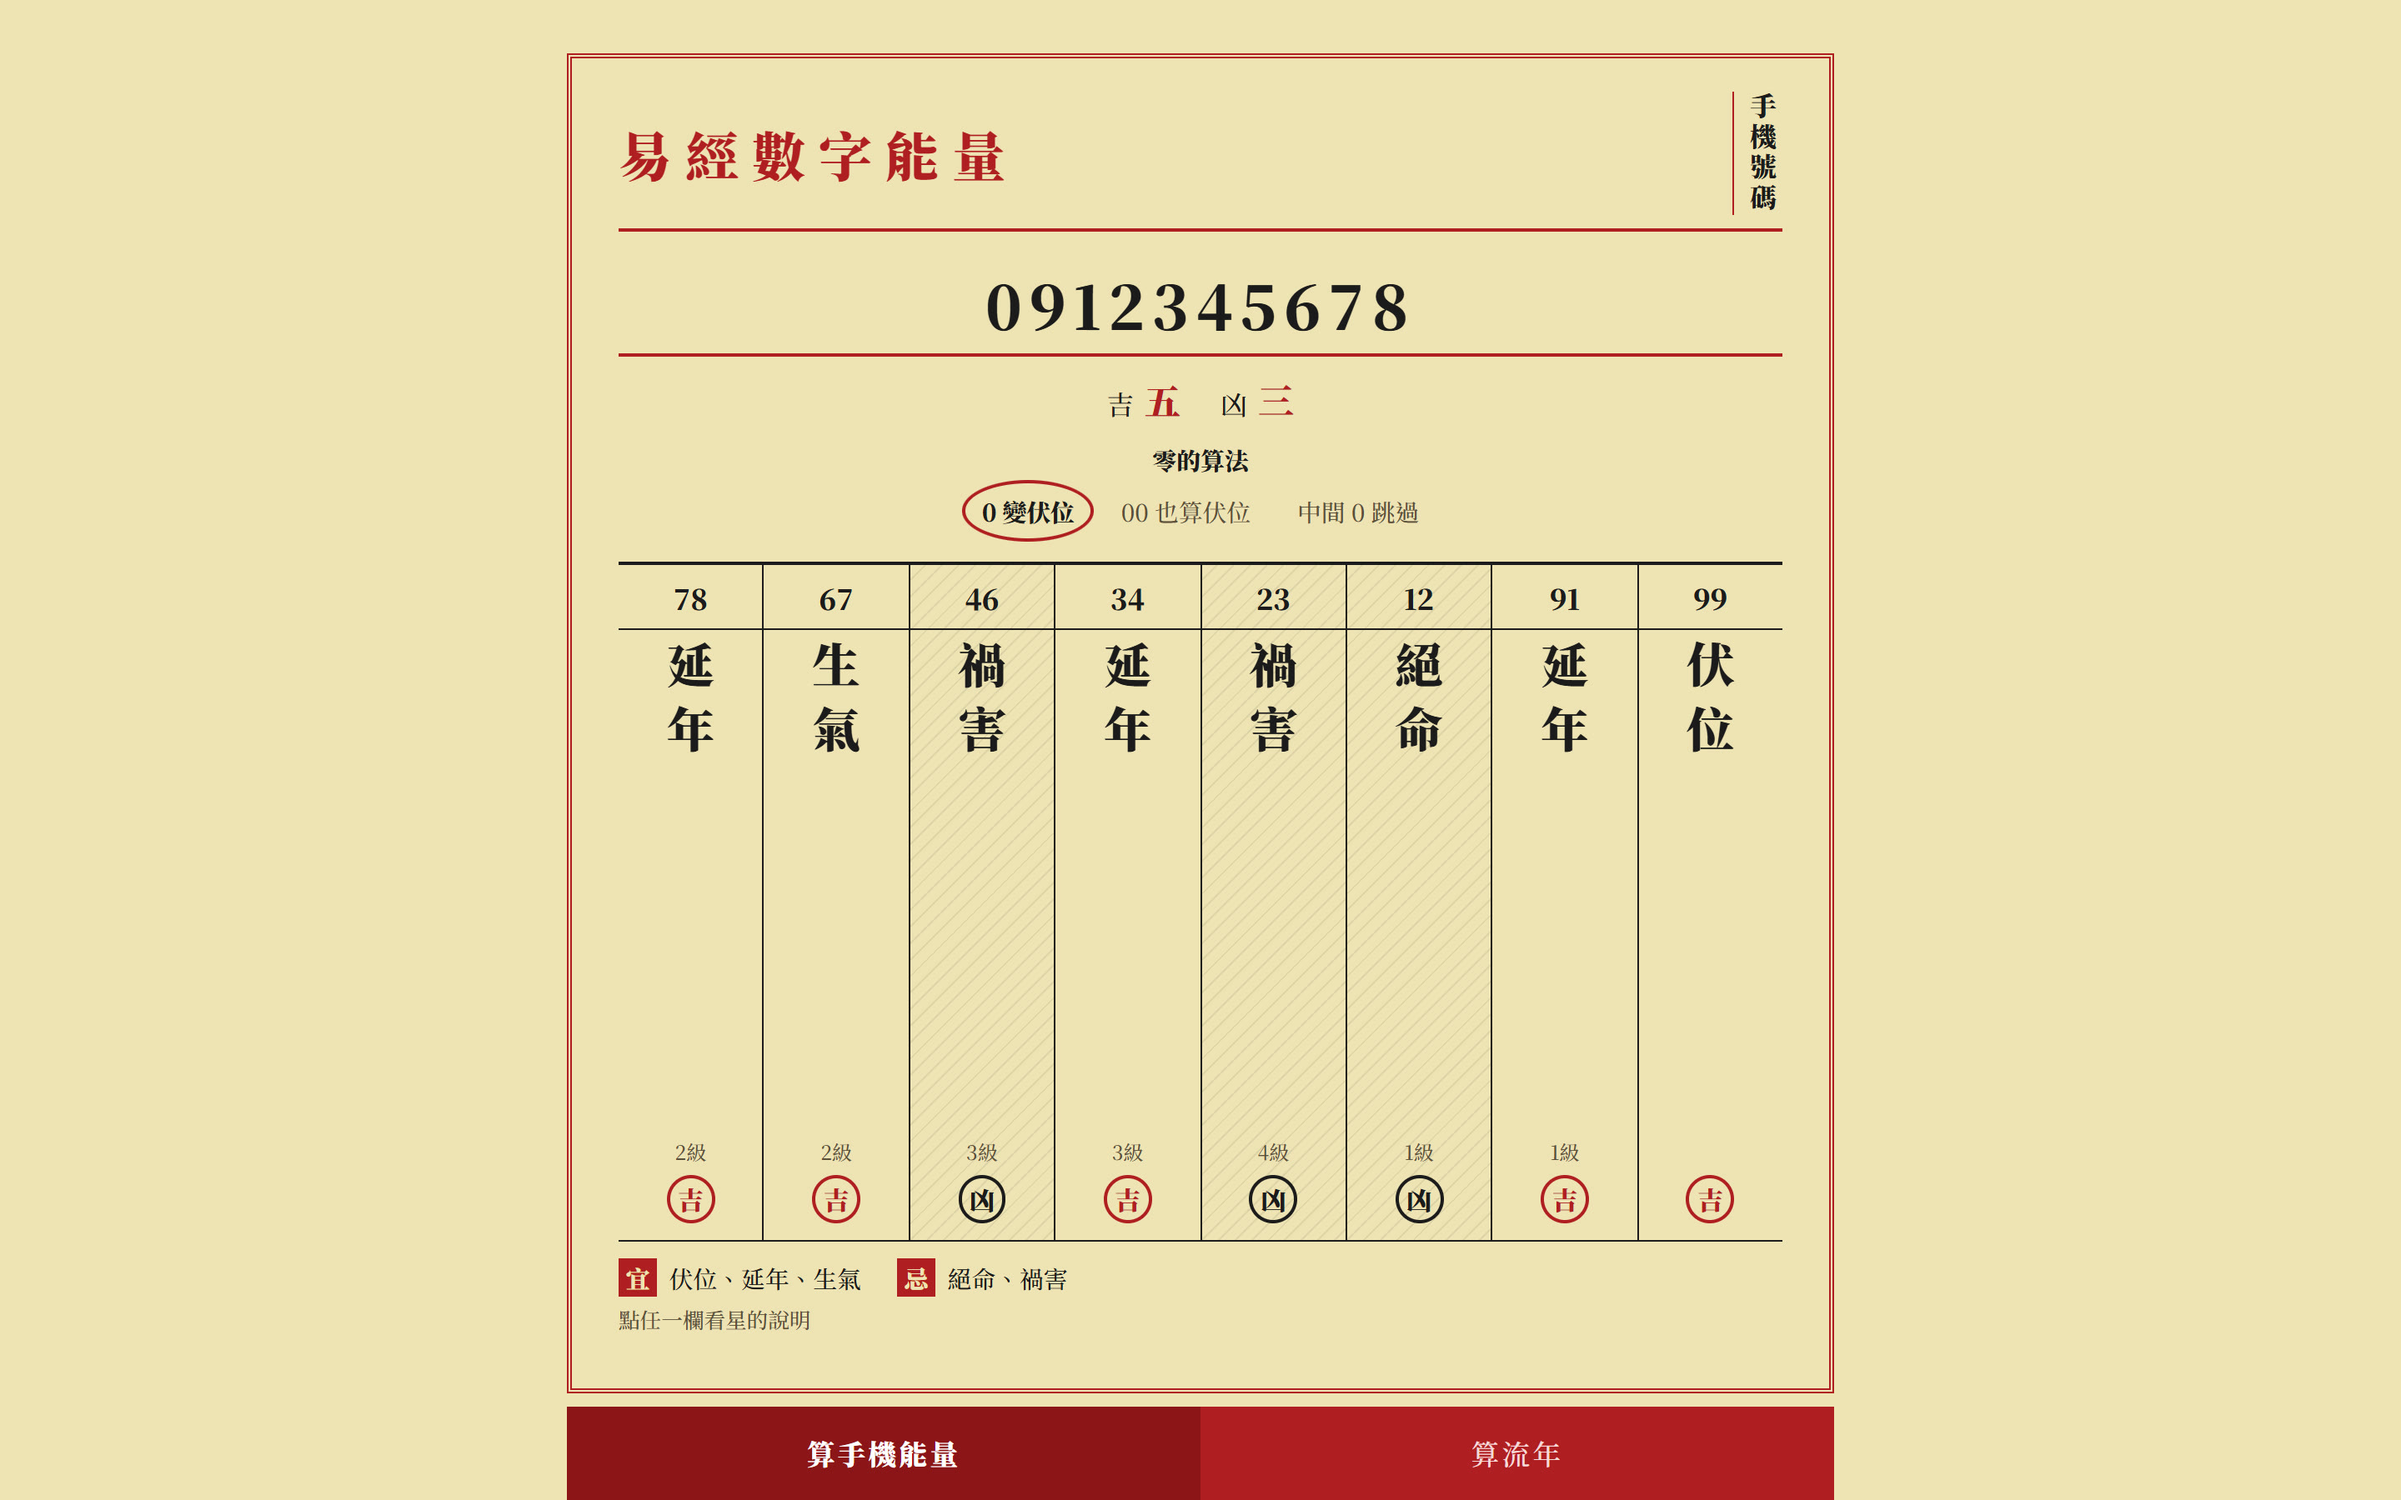
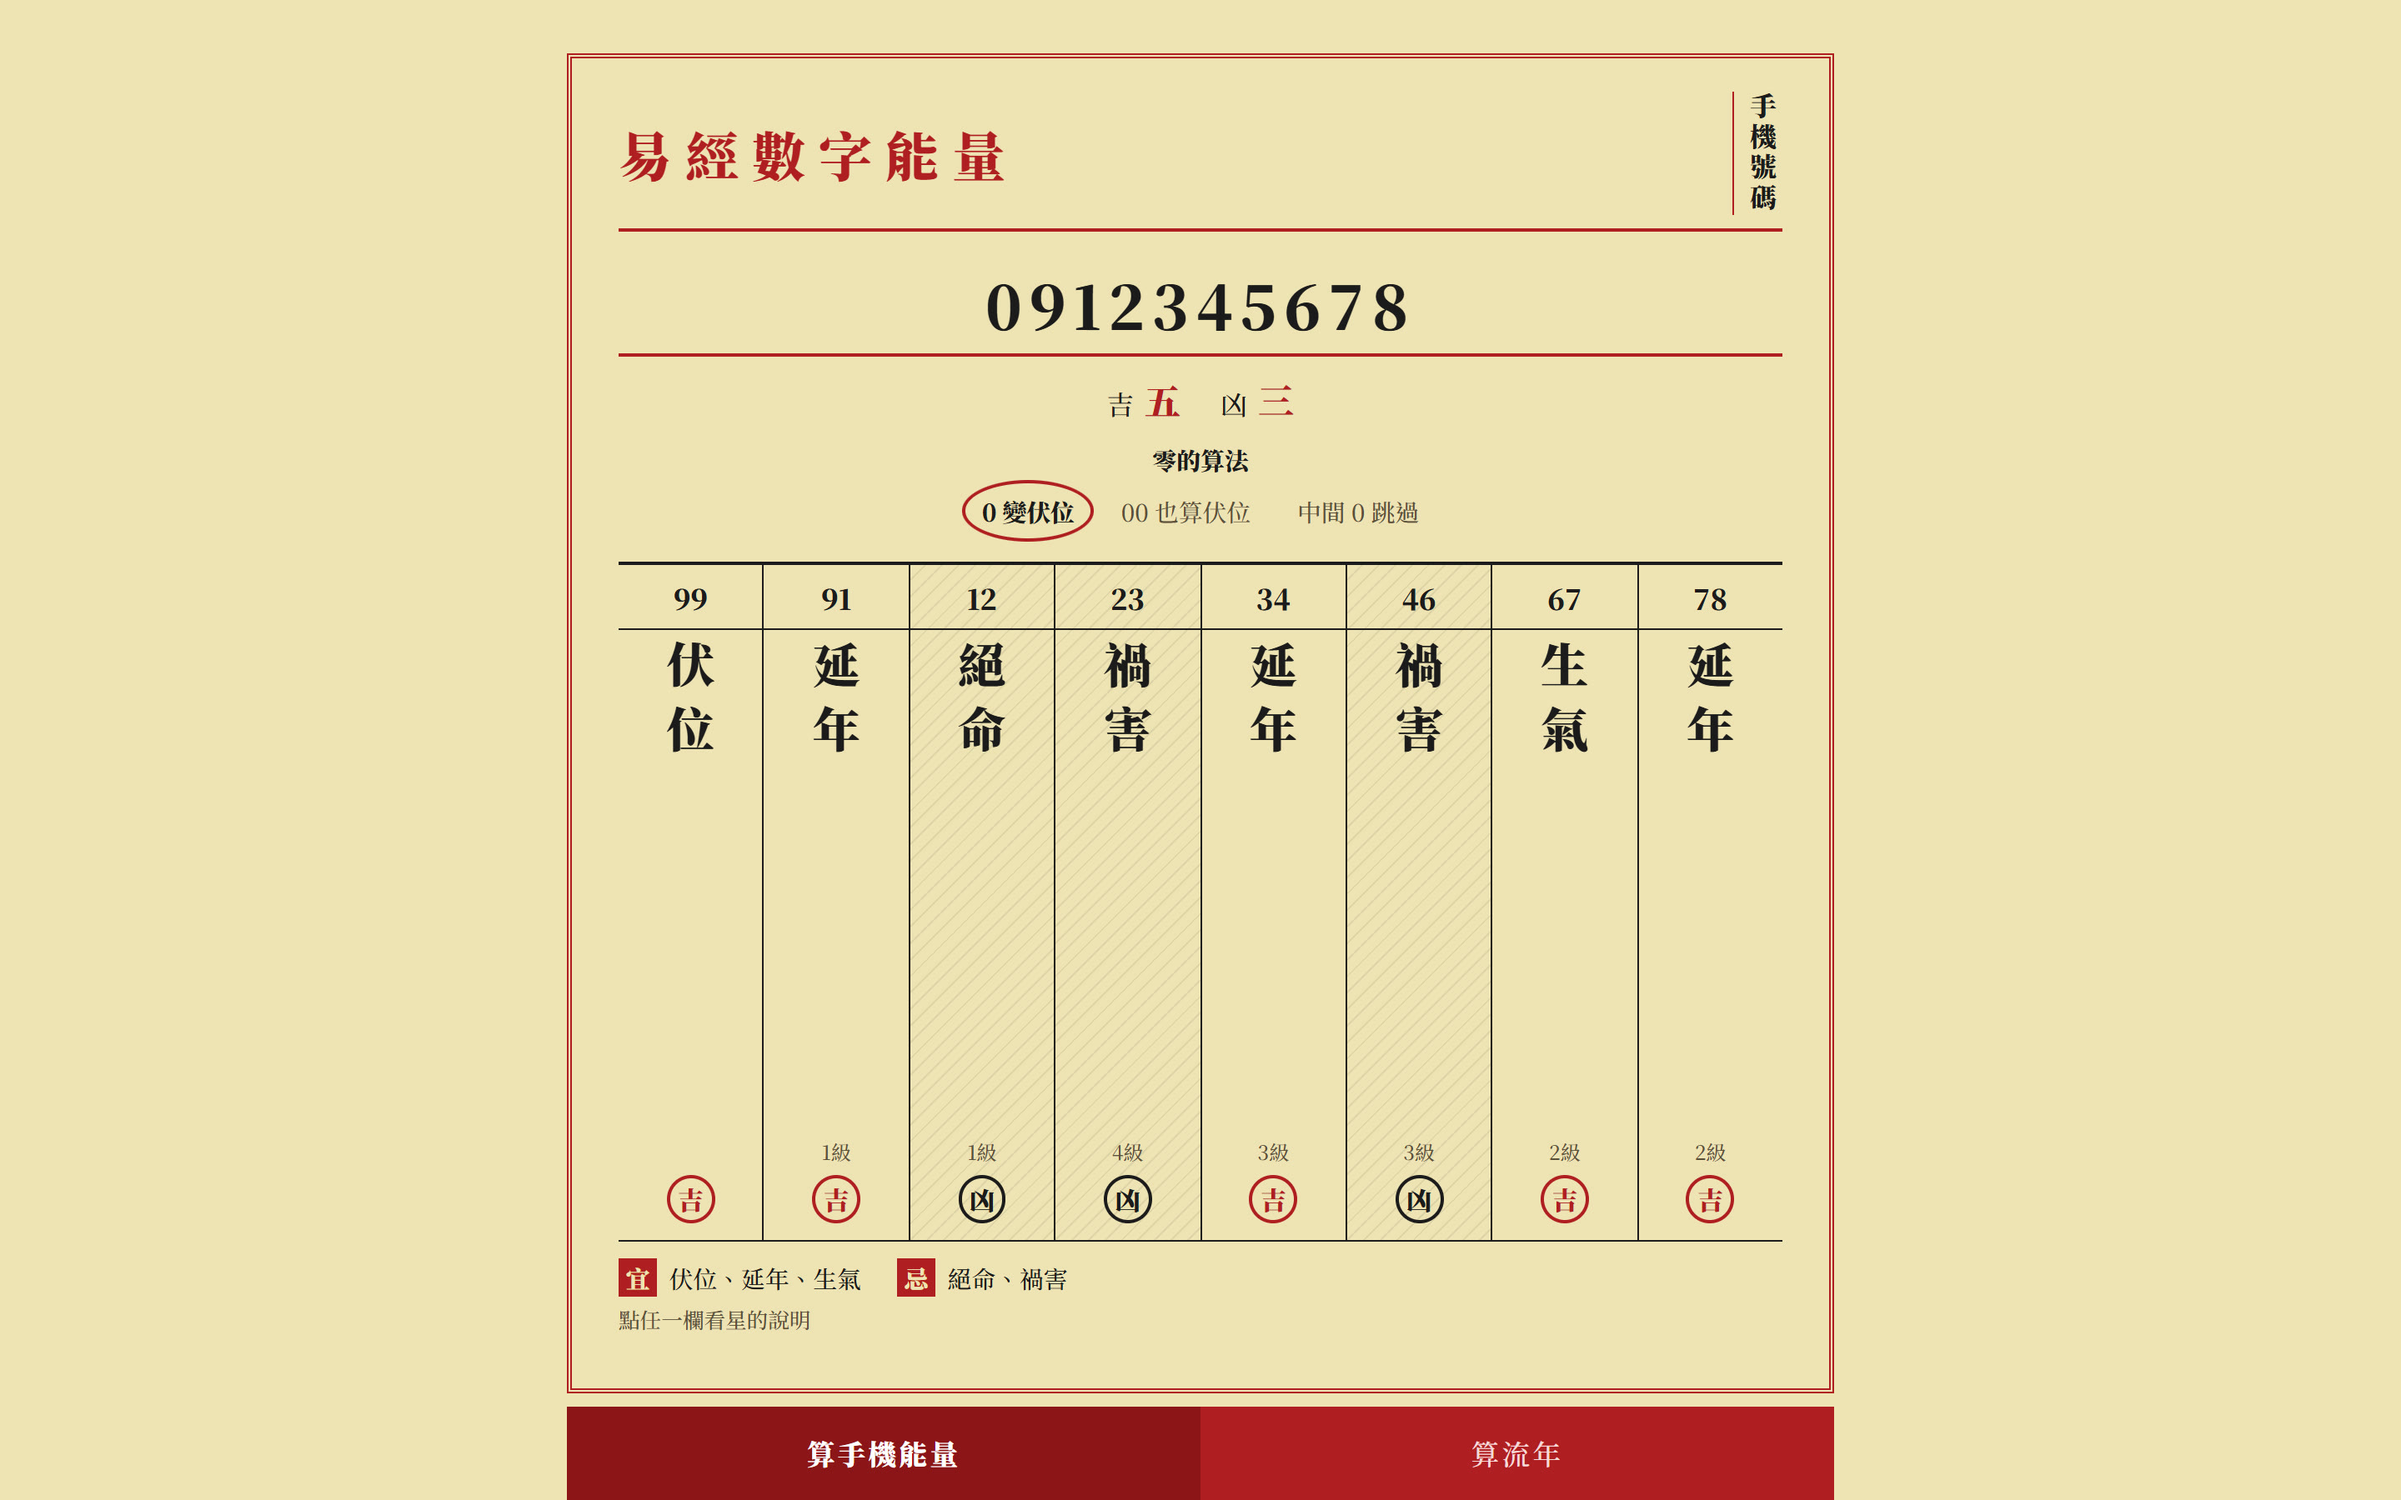
結果欄改為左起右讀，和號碼與年齡同方向

diff --git a/src/components/AlmanacColumns.vue b/src/components/AlmanacColumns.vue
@@ -1,7 +1,7 @@
 <script setup>
 import { computed } from 'vue'
 
-// 每組數字一欄，右起左讀；showAges 時欄寬等於該組管的年數
+// 每組數字一欄，左起右讀（和號碼、年齡同方向）；showAges 時欄寬等於該組管的年數
 const props = defineProps({
   results: { type: Array, required: true },
   showAges: { type: Boolean, default: false },
@@ -92,14 +92,13 @@ const bad = computed(() => props.results.filter(r => !r.lucky))
   flex-grow 1
   list-style none
   display flex
-  flex-direction row-reverse
   border-top 2px solid ink
   border-bottom 1px solid ink
   li
     flex 1 1 0
     min-width 0
     border-left 1px solid ink
-    &:last-child
+    &:first-child
       border-left none
 
 .col

diff --git a/DESIGN.md b/DESIGN.md
@@ -1,6 +1,6 @@
 ---
 name: 易經數字能量
-description: 把號碼印成一頁農民曆：每兩位數一欄、星名直排、右起左讀，吉凶用圈註一眼掃完。
+description: 把號碼印成一頁農民曆：每兩位數一欄、星名直排、左起右讀，吉凶用圈註一眼掃完。
 colors:
   almanac-paper: "#efe3b4"
   almanac-paper-deep: "#e4d49c"
@@ -114,7 +114,7 @@ components:
 
 **Key Characteristics:**
 - 曆紙黃底 + 墨黑 + 單一朱紅，三色就是全部
-- 欄位式版面：每組號碼一欄，右起左讀，星名直排
+- 欄位式版面：每組號碼一欄，左起右讀，星名直排
 - 吉用朱圈、凶用墨圈加斜線網底，不靠第二個色相分吉凶
 - 直角、細線、雙線外框；圓形只出現在「圈註」
 - 全站一套宋體（Noto Serif TC 500/900），數字等寬
@@ -164,7 +164,7 @@ components:
 
 單欄紙張：`.sheet` 最大寬 760px 置中，手機外距 8px、內距 12px 12px 16px；800px 以上頂部留 32px，內距 20px 28px 32px。紙張撐滿可視高度（100dvh），結果欄區塊以 flex-grow 吃掉剩餘空間，欄高至少 240px（桌機 280px）。
 
-結果是一列等寬欄（`flex-direction: row-reverse`，右起左讀），欄間 1px 墨線，上緣 2px 墨線、下緣 1px。流年頁的欄寬等於該組管的年數（flex-grow = 年數）；599px 以下圈註一起縮小以維持水平對齊。空狀態也畫出九欄淡墨格線（ink 18%），讓版面在輸入前就已經是曆書。
+結果是一列等寬欄（左起右讀，和號碼、年齡同方向；使用者 2026-10-09 決定不採曆書的右起左讀），欄間 1px 墨線，上緣 2px 墨線、下緣 1px。流年頁的欄寬等於該組管的年數（flex-grow = 年數）；599px 以下圈註一起縮小以維持水平對齊。空狀態也畫出九欄淡墨格線（ink 18%），讓版面在輸入前就已經是曆書。
 
 導覽列固定在畫面底部（sticky），兩個分頁平分寬度、高 56px，含 safe-area 內距；桌機時與紙張同寬。
 
@@ -224,7 +224,7 @@ components:
 ### Do:
 - **Do** 只用三種顏色角色：曆紙、墨、朱（含深朱狀態）。
 - **Do** 用 135° 細斜線網底 + 墨圈表示凶，不用新色相。
-- **Do** 把結果排成欄、右起左讀、星名直排。
+- **Do** 把結果排成欄、左起右讀、星名直排。
 - **Do** 用線條分隔層次：3px 雙線、2px、1px 三級。
 - **Do** 只用 Noto Serif TC 的 500 與 900，數字等寬。
 - **Do** 互動元素至少 44px 高（關閉鈕、展開列；導覽 56px）。

diff --git a/.impeccable/surfaces/src-app-vue.md b/.impeccable/surfaces/src-app-vue.md
@@ -13,7 +13,7 @@ related_targets: ["src/components/PhoneNumber.vue","src/components/IDNumber.vue"
 
 ## Direction contract
 
-THESIS：號碼印成一頁農民曆：每兩位數一欄、星名直排、右起左讀，吉凶像曆書的圈註一眼掃完。拒絕「輸入框＋結果卡片清單」的工具預設。
+THESIS：號碼印成一頁農民曆：每兩位數一欄、星名直排、左起右讀（使用者改定，和號碼與年齡同方向），吉凶像曆書的圈註一眼掃完。拒絕「輸入框＋結果卡片清單」的工具預設。
 
 OWN-WORLD：便宜曆紙黃底、墨黑字、單一朱紅只用在外框雙線、標題、吉圈與選取；凶欄用細斜線網底而不是另一個顏色。Noto Serif TC 500/900，數字等寬。欄與欄之間是墨色細直線，沒有卡片、沒有圓角、沒有陰影；拿掉所有文字也認得出是曆書版面。
 
